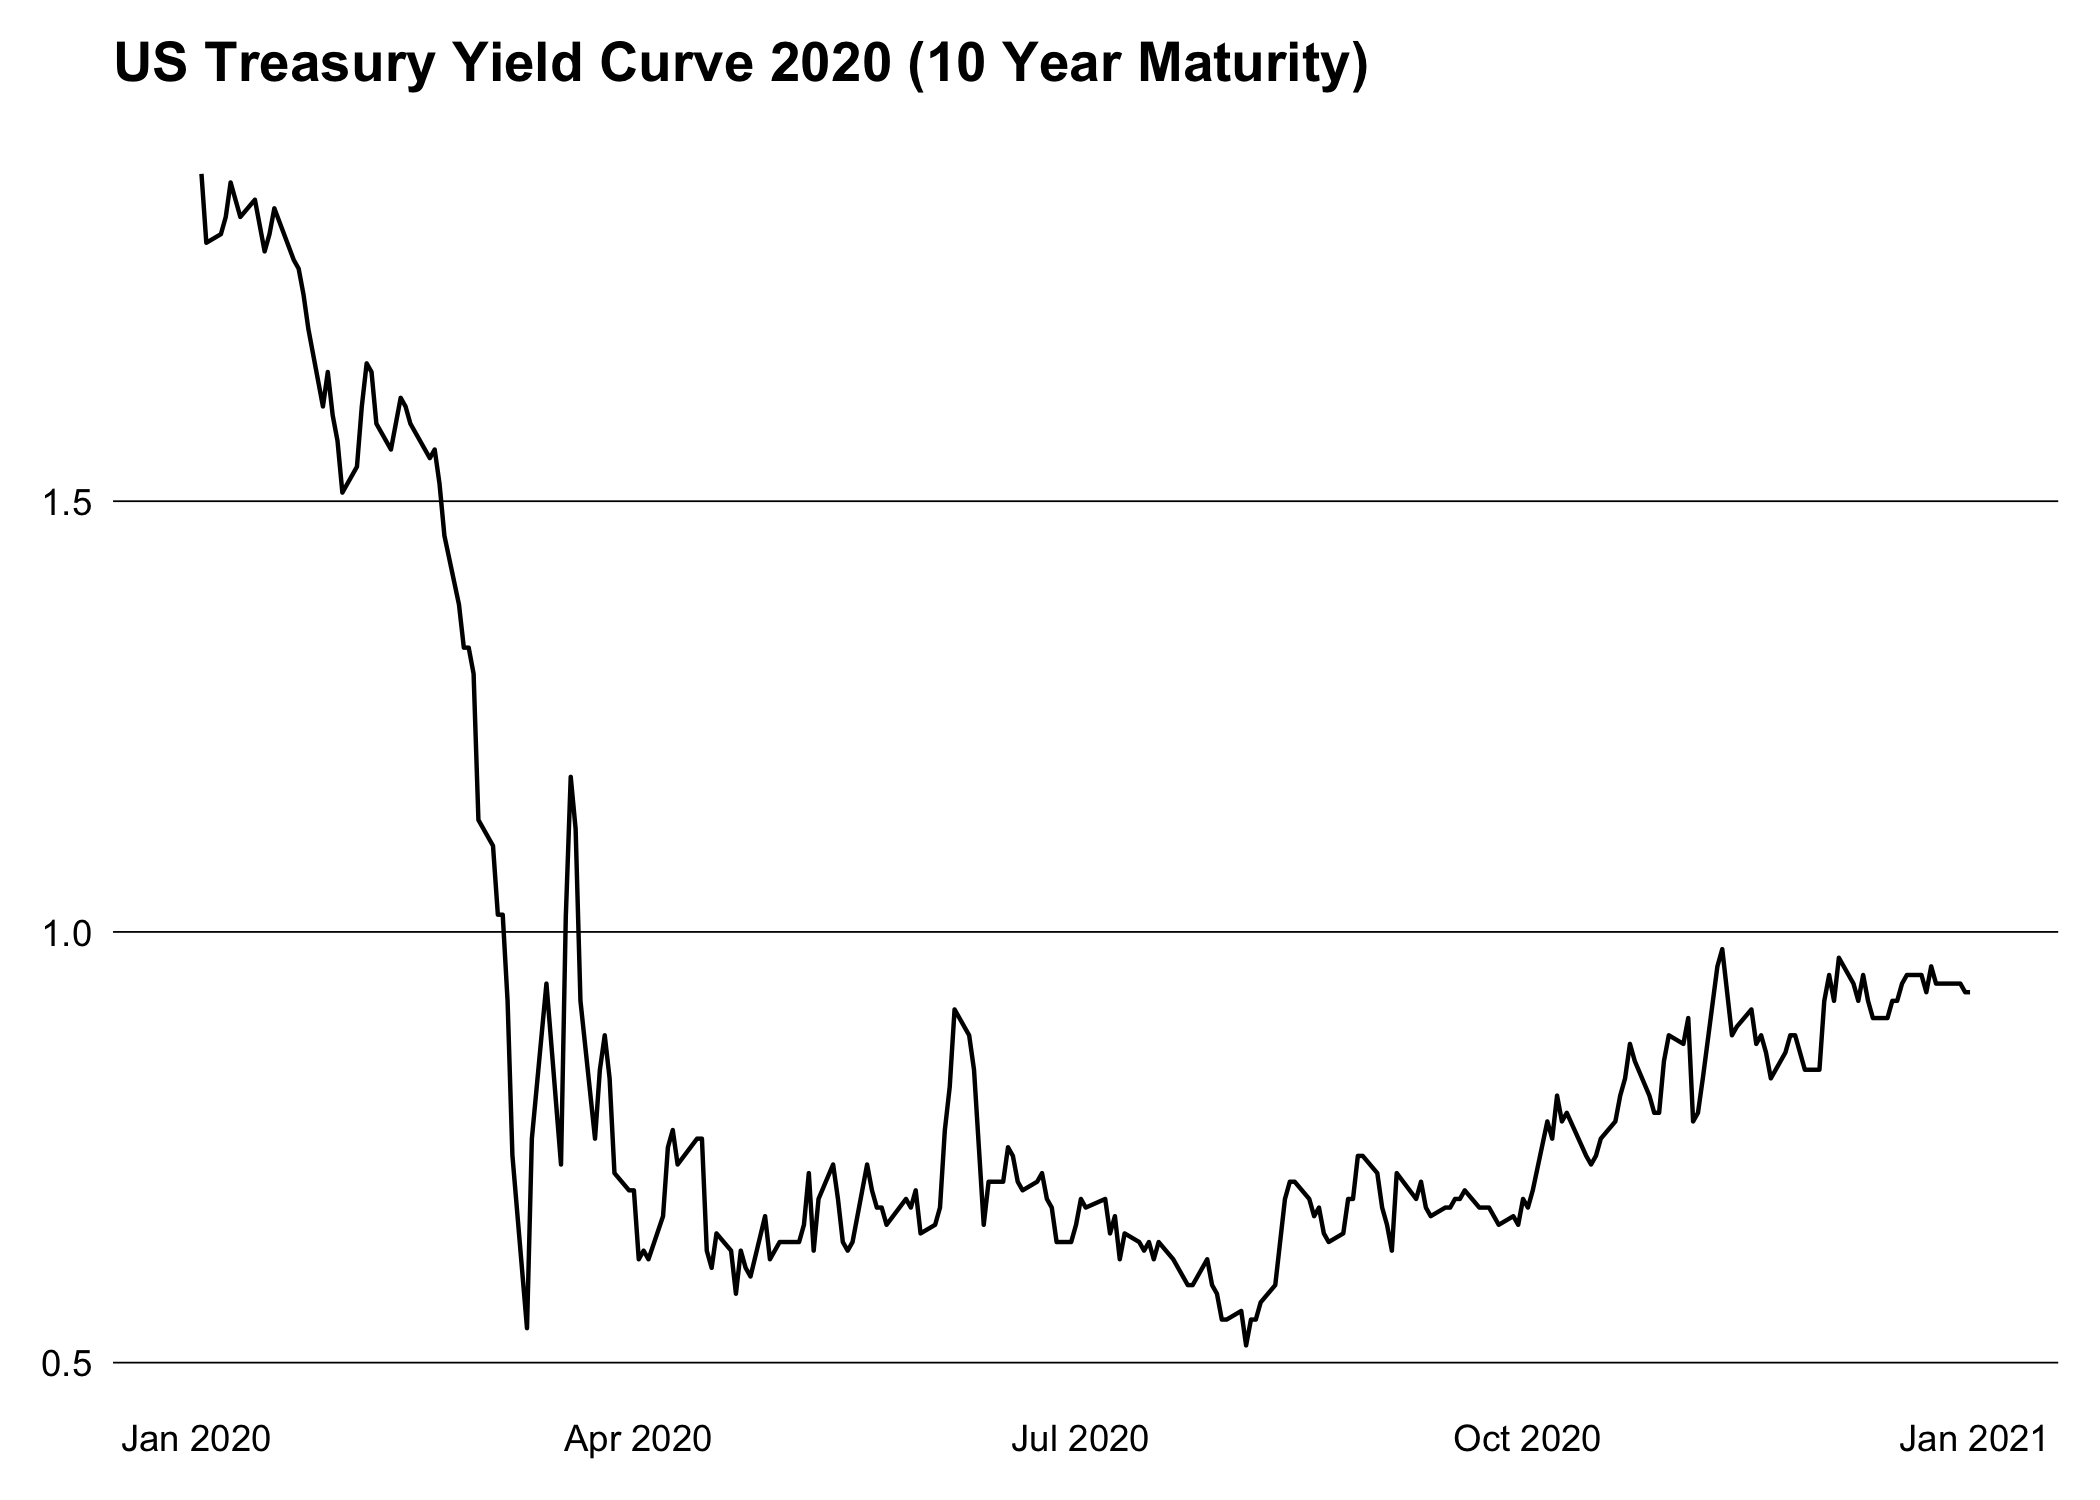
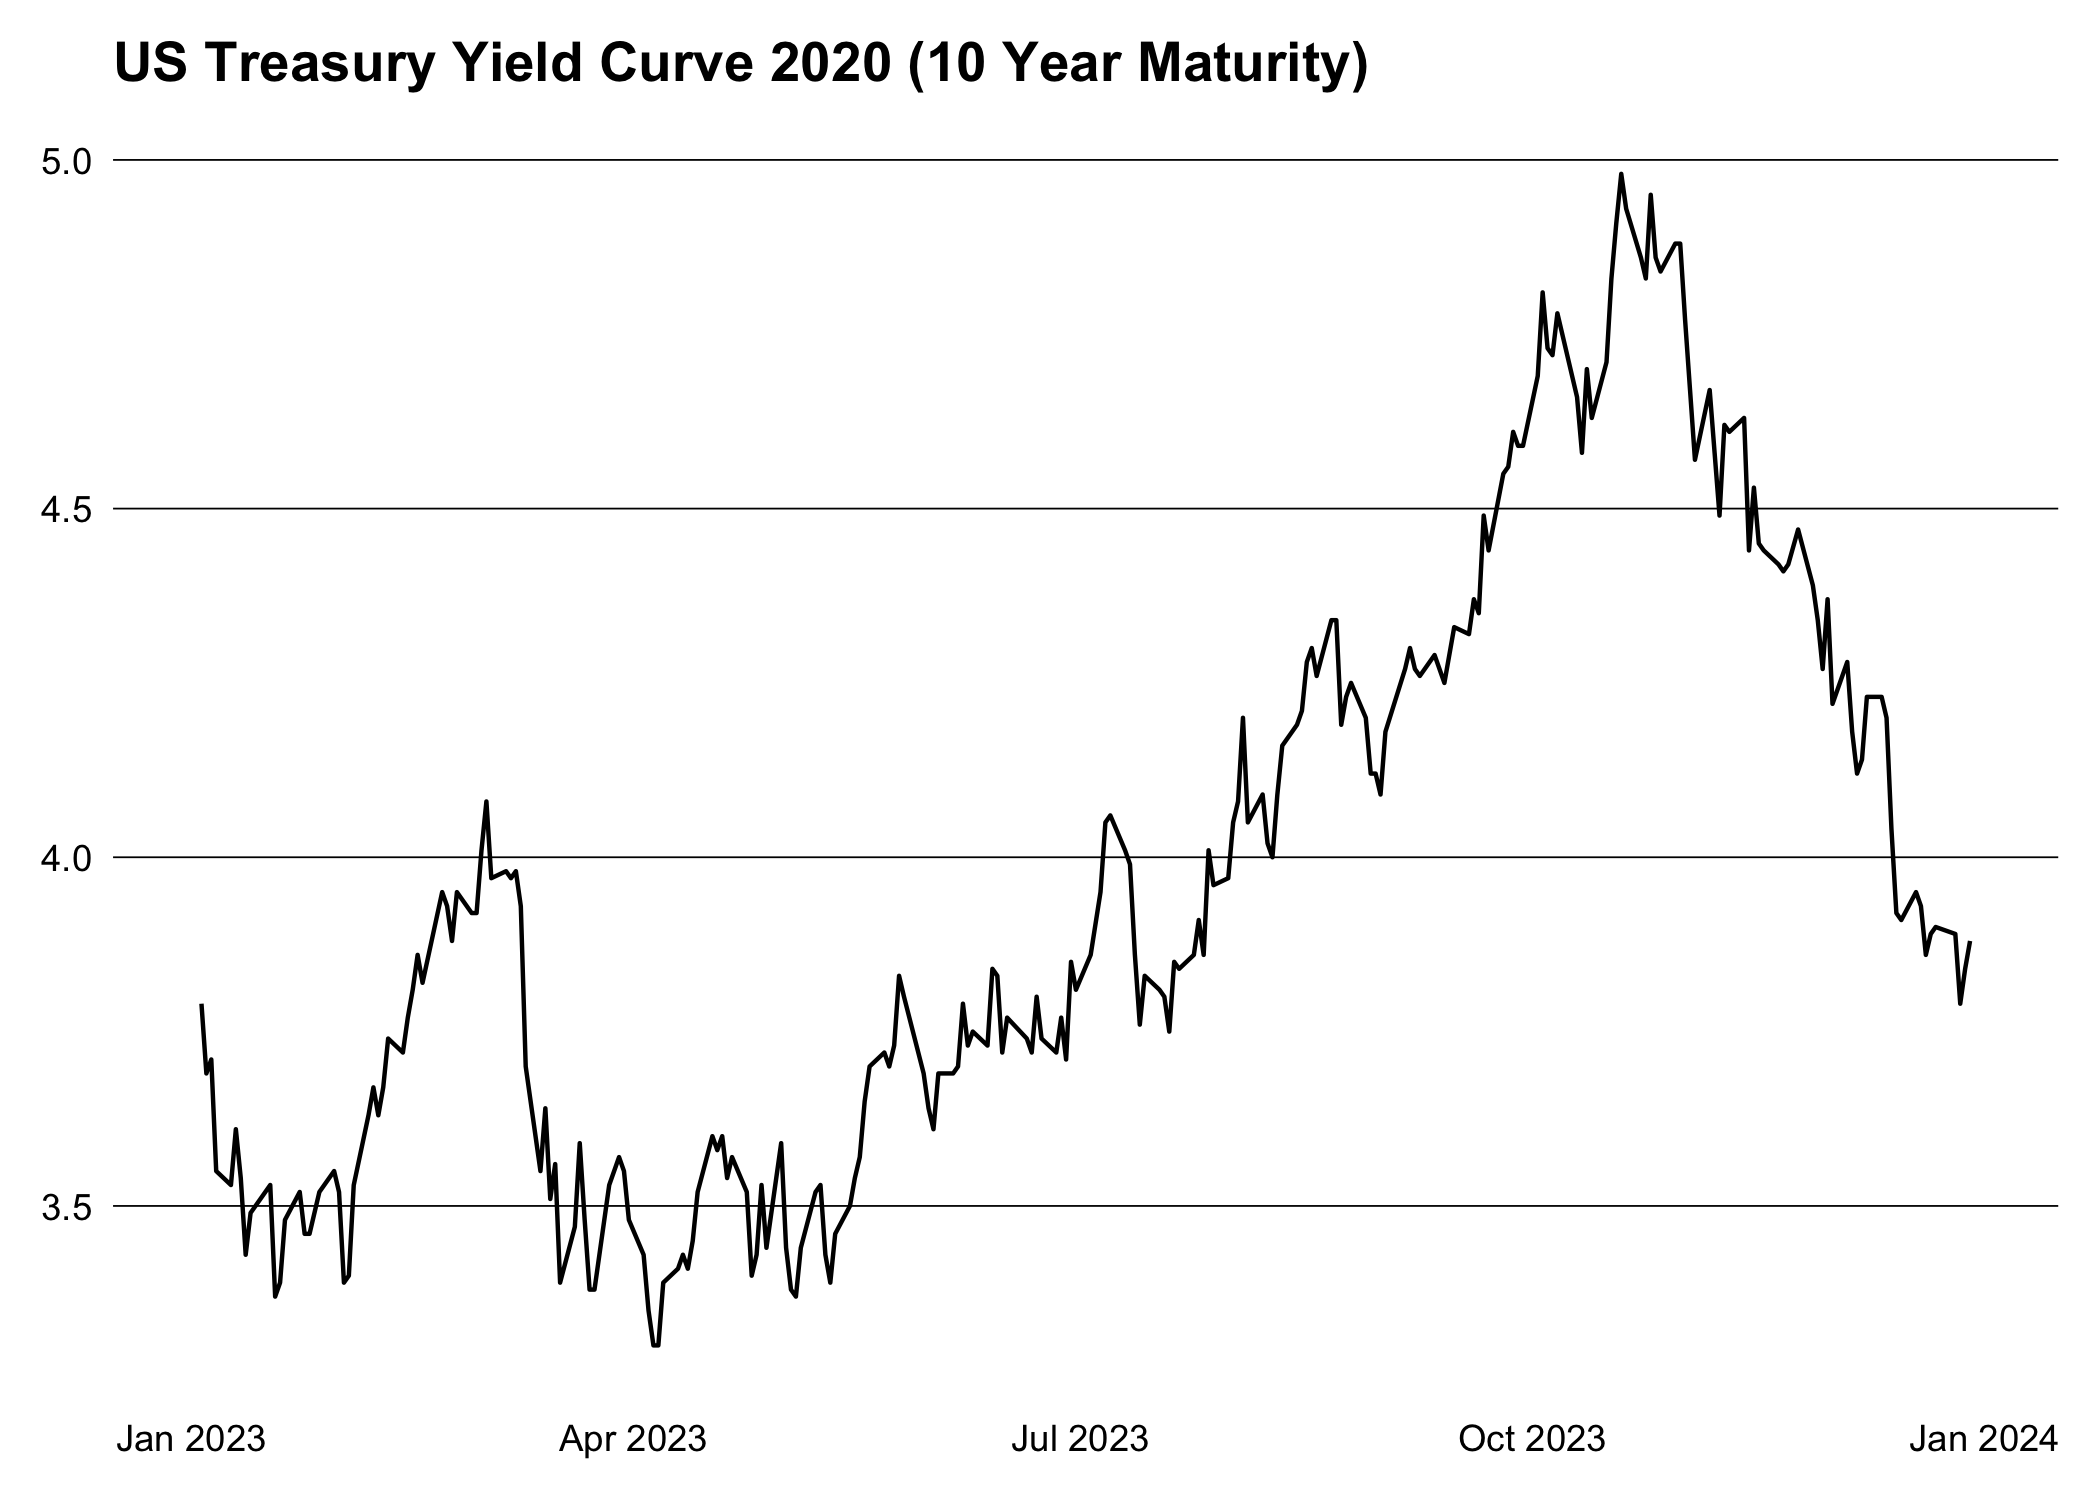
docs: use 2023 data in readme

diff --git a/README.md b/README.md
@@ -45,17 +45,17 @@ convention of the XML feed.
 ``` r
 library(treasury)
 
-yield_curve <- tr_yield_curve(2020)
+yield_curve <- tr_yield_curve(2023)
 yield_curve
-#> # A tibble: 3,012 × 3
+#> # A tibble: 3,250 × 3
 #>   date       maturity  rate
 #>   <date>     <chr>    <dbl>
-#> 1 2020-01-02 1 month   1.53
-#> 2 2020-01-02 2 month   1.55
-#> 3 2020-01-02 3 month   1.54
-#> 4 2020-01-02 6 month   1.57
-#> 5 2020-01-02 1 year    1.56
-#> # ℹ 3,007 more rows
+#> 1 2023-01-03 1 month   4.17
+#> 2 2023-01-03 2 month   4.42
+#> 3 2023-01-03 3 month   4.53
+#> 4 2023-01-03 4 month   4.7 
+#> 5 2023-01-03 6 month   4.77
+#> # ℹ 3,245 more rows
 ```
 
 <img src="man/figures/README-plot-1.png" width="100%" />
